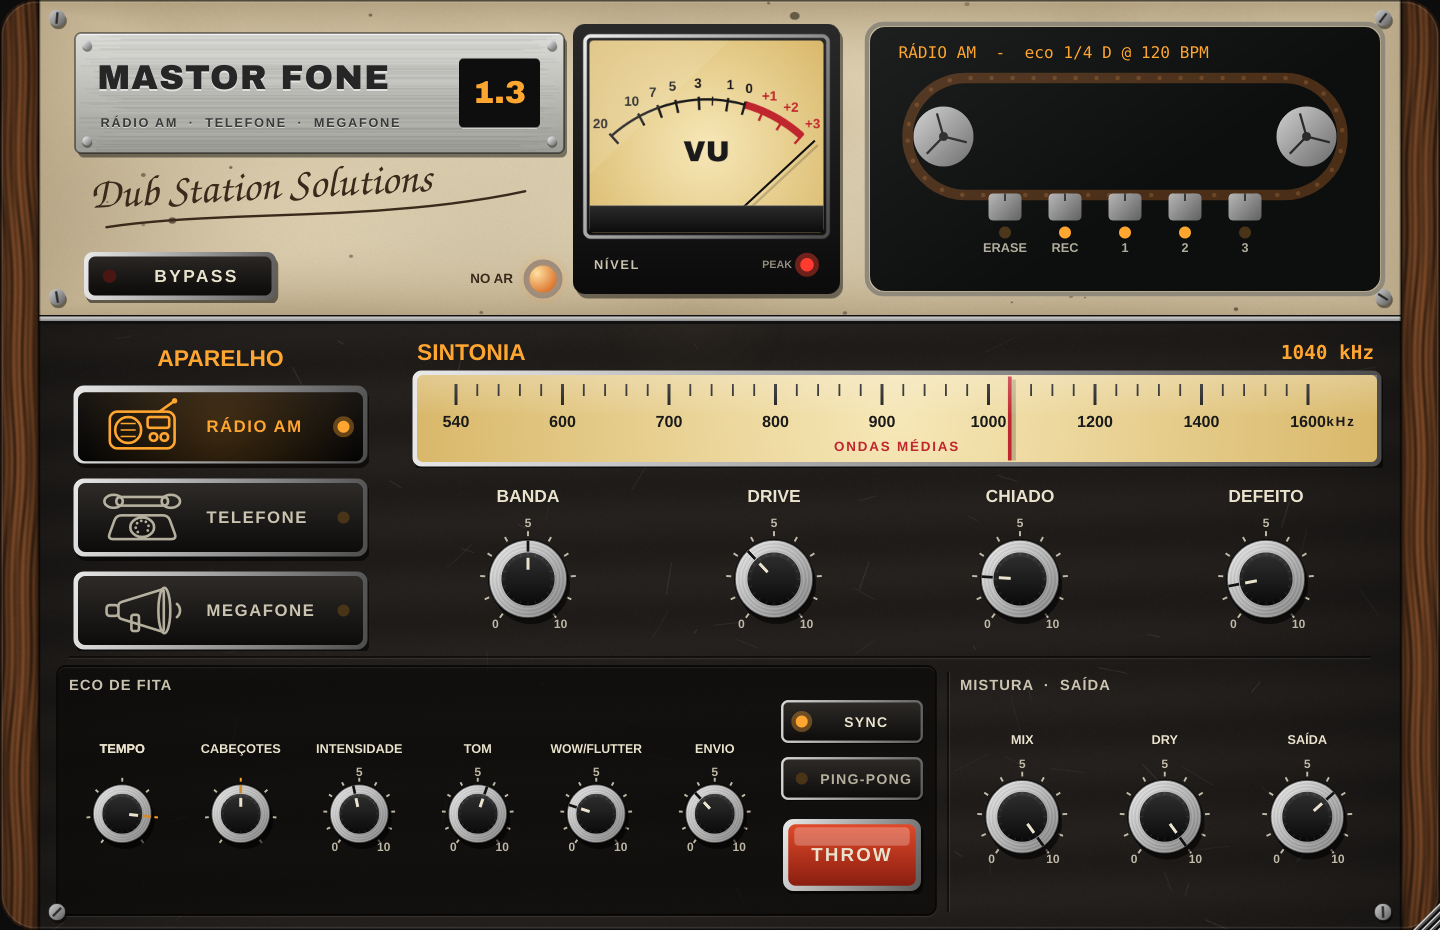
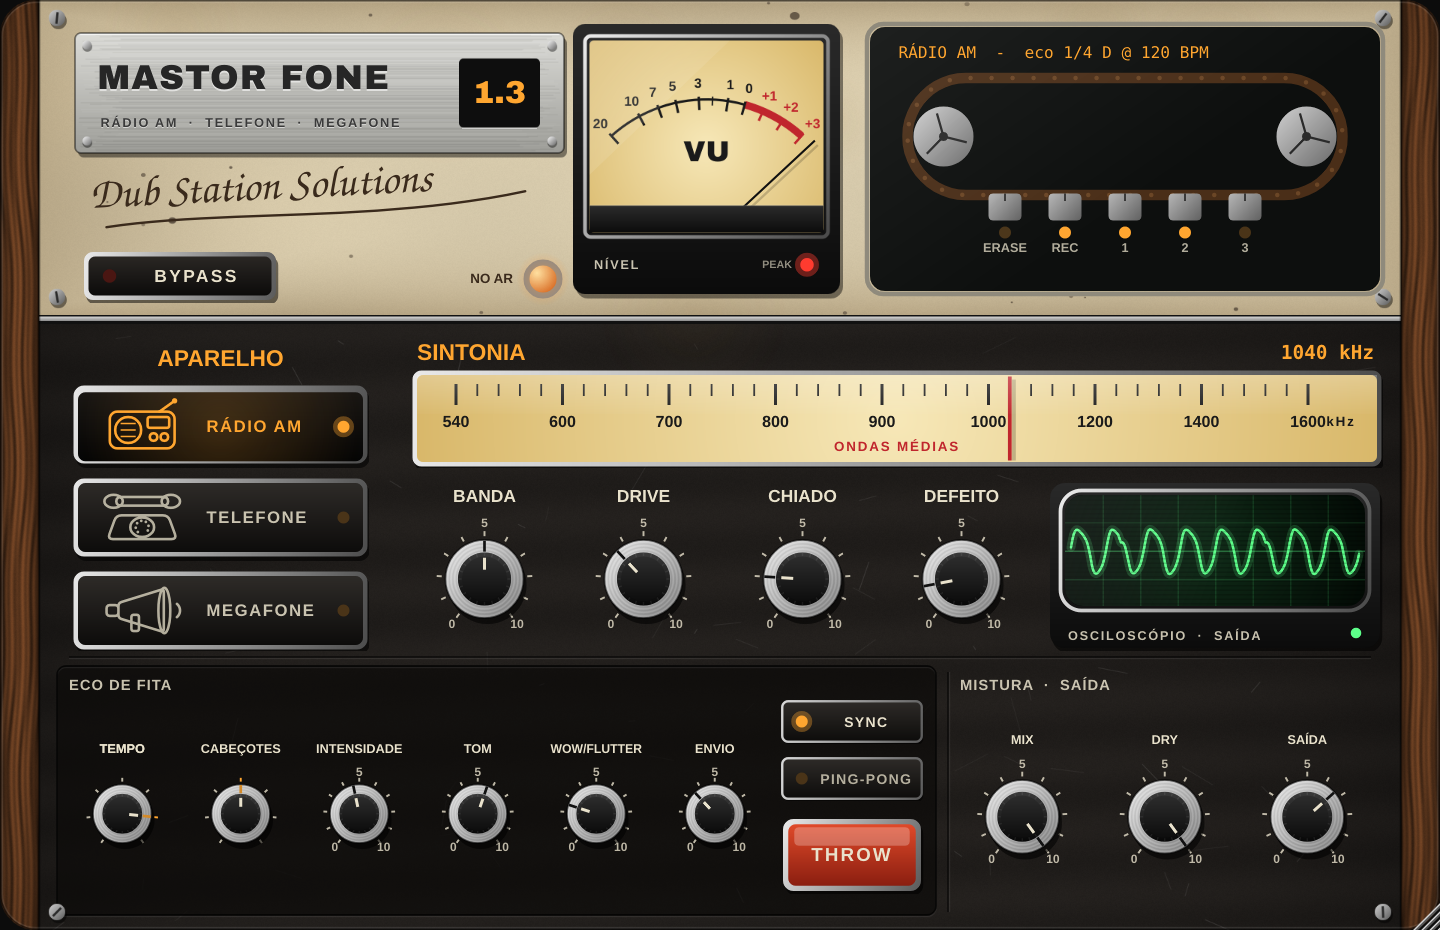
Mastor Fone 1.3: osciloscópio verde mostrando a onda de saída
Tela de tubo verde, com retícula, persistência do fósforo e linhas de
varredura, mostrando em tempo real a onda que sai depois do aparelho.

Claude-Session: https://claude.ai/code/session_01DJAeyXvUbq8XtquW6CP987

Changed region(s): [[0.625, 0.4989, 0.9688, 0.686], [0.3125, 0.5301, 0.5938, 0.686]]

diff --git a/site/index.html b/site/index.html
@@ -295,7 +295,7 @@
               <li>Rádio AM com válvula e chiado, telefone de central antiga e megafone estourado</li>
               <li>Teclas dos aparelhos, Sintonia, Banda, Drive, Chiado, Defeito e Mix</li>
               <li>Eco de fita com Sync, cabeçotes, ping-pong e THROW, VU e lâmpada NO AR</li>
-              <li>Visual Dub Station, com dial de ondas médias e BYPASS em destaque</li>
+              <li>Visual Dub Station, com dial de ondas médias, osciloscópio verde e BYPASS em destaque</li>
             </ul>
             <div class="formats">Efeito · Windows: VST3 + standalone · Mac: VST3, AU + standalone (Intel e Apple Silicon)</div>
             <div class="dl">

diff --git a/MastorFone/Source/StationPanel.cpp b/MastorFone/Source/StationPanel.cpp
@@ -399,14 +399,124 @@ void TuningDial::paint (Graphics& g)
 }
 
 //==============================================================================
+void CrtScope::update()
+{
+    const int N = (int) buf.size(), show = 1024;
+    proc.copyScope (buf.data(), N);
+    // gatilho: primeira subida pelo zero (com histerese) na primeira metade, para a onda ficar parada
+    int start = N - show;
+    for (int i = N - show - 1; i > 1; --i)
+        if (buf[(size_t) i - 1] < -0.01f && buf[(size_t) i] >= 0.0f) { start = i; break; }
+    start = jmin (start, N - show);
+
+    prev2 = prev1; prev1 = trace;
+    const int cols = 220;
+    trace.assign ((size_t) cols * 2, 0.0f);
+    for (int c = 0; c < cols; ++c)
+    {
+        float lo = 1e9f, hi = -1e9f;
+        const int a = start + c * show / cols, b = start + (c + 1) * show / cols;
+        for (int i = a; i < b; ++i) { lo = jmin (lo, buf[(size_t) i]); hi = jmax (hi, buf[(size_t) i]); }
+        trace[(size_t) c * 2] = lo; trace[(size_t) c * 2 + 1] = hi;
+    }
+    repaint();
+}
+
+void CrtScope::paint (Graphics& g)
+{
+    auto b = getLocalBounds().toFloat();
+    const Colour phosphor (0xff5dff8a);
+
+    // caixa de baquelite com aro cromado
+    g.setColour (Colours::black.withAlpha (0.55f));
+    g.fillRoundedRectangle (b.reduced (2.0f).translated (1.5f, 3.0f), 10.0f);
+    g.setGradientFill (ColourGradient (Colour (0xff2a2a2a), 0, b.getY(), Colour (0xff0b0b0b), 0, b.getBottom(), false));
+    g.fillRoundedRectangle (b.reduced (2.0f), 10.0f);
+    auto label = b.removeFromBottom (20.0f);
+    auto screen = b.reduced (12.0f, 10.0f);
+    g.setGradientFill (ColourGradient (Colour (0xffe8e8e8), screen.getX(), screen.getY(), Colour (0xff4c4c4c), screen.getRight(), screen.getBottom(), false));
+    g.drawRoundedRectangle (screen.expanded (3.0f), 14.0f, 2.5f);
+
+    // tela de tubo: verde escuro, mais clara no meio (curvatura)
+    Path tube; tube.addRoundedRectangle (screen, 12.0f);
+    g.setGradientFill (ColourGradient (Colour (0xff0f2a17), screen.getCentreX(), screen.getCentreY(),
+                                       Colour (0xff030a05), screen.getX(), screen.getY(), true));
+    g.fillPath (tube);
+    {
+        Graphics::ScopedSaveState ss (g);
+        g.reduceClipRegion (tube);
+
+        // retícula
+        g.setColour (phosphor.withAlpha (0.13f));
+        for (int i = 1; i < 8; ++i)
+        {
+            const float x = screen.getX() + screen.getWidth() * (float) i / 8.0f;
+            g.drawVerticalLine (roundToInt (x), screen.getY(), screen.getBottom());
+        }
+        for (int i = 1; i < 4; ++i)
+        {
+            const float y = screen.getY() + screen.getHeight() * (float) i / 4.0f;
+            g.drawHorizontalLine (roundToInt (y), screen.getX(), screen.getRight());
+        }
+        g.setColour (phosphor.withAlpha (0.22f));
+        g.drawHorizontalLine (roundToInt (screen.getCentreY()), screen.getX(), screen.getRight());
+
+        // traço com persistência do fósforo (quadros anteriores mais apagados)
+        auto drawTrace = [&] (const std::vector<float>& t, float alpha, bool glow)
+        {
+            if (t.size() < 4) return;
+            const int cols = (int) t.size() / 2;
+            const float cy = screen.getCentreY(), amp = screen.getHeight() * 0.45f;
+            auto yOf = [&] (float v) { return cy - amp * jlimit (-1.0f, 1.0f, v * 1.6f); };
+            Path p;
+            for (int c = 0; c < cols; ++c)
+            {
+                const float x = screen.getX() + 4.0f + (screen.getWidth() - 8.0f) * (float) c / (float) (cols - 1);
+                const float mid = 0.5f * (t[(size_t) c * 2] + t[(size_t) c * 2 + 1]);
+                if (c == 0) p.startNewSubPath (x, yOf (mid)); else p.lineTo (x, yOf (mid));
+                // faixa entre o mínimo e o máximo da coluna (detalhe da onda comprimida)
+                g.setColour (phosphor.withAlpha (0.35f * alpha));
+                g.drawLine (x, yOf (t[(size_t) c * 2]), x, yOf (t[(size_t) c * 2 + 1]), 1.0f);
+            }
+            if (glow)
+            {
+                g.setColour (phosphor.withAlpha (0.18f * alpha));
+                g.strokePath (p, PathStrokeType (6.0f, PathStrokeType::curved, PathStrokeType::rounded));
+            }
+            g.setColour (phosphor.withAlpha (alpha));
+            g.strokePath (p, PathStrokeType (1.6f, PathStrokeType::curved, PathStrokeType::rounded));
+        };
+        drawTrace (prev2, 0.18f, false);
+        drawTrace (prev1, 0.35f, false);
+        drawTrace (trace, 1.0f, true);
+
+        // linhas de varredura + reflexo do vidro
+        g.setColour (Colours::black.withAlpha (0.18f));
+        for (float y = screen.getY(); y < screen.getBottom(); y += 3.0f)
+            g.drawHorizontalLine (roundToInt (y), screen.getX(), screen.getRight());
+        g.setGradientFill (ColourGradient (Colours::white.withAlpha (0.10f), screen.getX(), screen.getY(),
+                                           Colours::transparentWhite, screen.getX() + screen.getWidth() * 0.6f, screen.getY() + screen.getHeight() * 0.6f, false));
+        g.fillPath (tube);
+    }
+
+    g.setColour (cream.withAlpha (0.85f));
+    g.setFont (bold (9.5f).withExtraKerningFactor (0.12f));
+    g.drawText (String::fromUTF8 ("OSCILOSCÓPIO  ·  SAÍDA"), label.withTrimmedLeft (14.0f), Justification::centredLeft);
+    const auto lp = Point<float> (label.getRight() - 18.0f, label.getCentreY() - 2.0f);
+    g.setColour (phosphor);
+    g.fillEllipse (lp.x - 3.5f, lp.y - 3.5f, 7.0f, 7.0f);
+}
+
+//==============================================================================
 StationPanel::StationPanel (RadioFoneProcessor& p)
-    : proc (p), modeKeys (*p.apvts.getParameter ("mode")), dial (*p.apvts.getParameter ("tune")), throwBtn ("THROW", p.apvts.getParameter ("throw"))
+    : proc (p), modeKeys (*p.apvts.getParameter ("mode")), dial (*p.apvts.getParameter ("tune")), scope (p), throwBtn ("THROW", p.apvts.getParameter ("throw"))
 {
     setLookAndFeel (&lnf);
     setSize (kW, kH);
 
     addAndMakeVisible (modeKeys);
     addAndMakeVisible (dial);
+    addAndMakeVisible (scope);
     setupKnob (band,   "band",   "BANDA", 1);
     setupKnob (drive,  "drive",  "DRIVE", 1);
     setupKnob (noise,  "noise",  "CHIADO", 1);
@@ -507,6 +617,7 @@ void StationPanel::resized()
     rowA.removeFromLeft (10);
     dial.setBounds (rowA.removeFromTop (92).reduced (4, 2));
     rowA.removeFromTop (4);
+    scope.setBounds (rowA.removeFromRight (232).reduced (4, 2));
     const int wm = rowA.getWidth() / 4;
     for (auto* k : { &band, &drive, &noise, &defect })
         place (*k, rowA.removeFromLeft (wm), 18);
@@ -585,6 +696,7 @@ void StationPanel::timerCallback()
     if (echoOn) tapePhase += 0.6f + 1.6f * jlimit (0.2f, 3.0f, 0.4f / jmax (0.04f, proc.getEchoDelaySec()));
 
     status.setText (statusText(), dontSendNotification);
+    scope.update();
     repaint (vuArea);
     repaint (tapeWin.expanded (4));
     repaint (Rectangle<float> (40, 40).withCentre (lampPos).toNearestInt());

diff --git a/MastorFone/Source/PluginProcessor.cpp b/MastorFone/Source/PluginProcessor.cpp
@@ -136,6 +136,7 @@ void RadioFoneProcessor::processBlock (juce::AudioBuffer<float>& buffer, juce::M
     float* L = buffer.getWritePointer (0);
     float* R = numOut > 1 ? buffer.getWritePointer (1) : nullptr;
     float sumSq = 0.0f, echoSq = 0.0f;
+    int sw = scopeWrite.load (std::memory_order_relaxed);
 
     // cadeia: entrada (mono) -> aparelho -> seco + eco de fita -> saída
     for (int i = 0; i < n; ++i)
@@ -148,10 +149,13 @@ void RadioFoneProcessor::processBlock (juce::AudioBuffer<float>& buffer, juce::M
         const float yl = ((v * dg + el) * og) * (1.0f - m) + xl * m;
         const float yr = ((v * dg + er) * og) * (1.0f - m) + xr * m;
         sumSq += 0.5f * (yl * yl + yr * yr);
+        scopeBuf[(size_t) sw] = 0.5f * (yl + yr);
+        sw = (sw + 1) & (kScopeSize - 1);
         echoSq += 0.5f * (el * el + er * er);
         if (R) { L[i] = yl; R[i] = yr; }
         else     L[i] = 0.5f * (yl + yr);
     }
+    scopeWrite.store (sw, std::memory_order_release);
     outRms.store (std::sqrt (sumSq / (float) n));
     echoRms.store (std::sqrt (echoSq / (float) n));
 }

diff --git a/MastorFone/Source/PluginProcessor.h b/MastorFone/Source/PluginProcessor.h
@@ -40,6 +40,15 @@ public:
     float getEchoDelaySec() const { return echoDelay.load(); }
     float getDisplayBpm() const  { return displayBpm.load(); }
 
+    // osciloscópio: últimas amostras da saída (mono)
+    static constexpr int kScopeSize = 8192;
+    void copyScope (float* dest, int n) const
+    {
+        const int w = scopeWrite.load (std::memory_order_acquire);
+        for (int i = 0; i < n; ++i)
+            dest[i] = scopeBuf[(size_t) ((w - n + i) & (kScopeSize - 1))];
+    }
+
     juce::AudioProcessorValueTreeState apvts;
     static juce::AudioProcessorValueTreeState::ParameterLayout createLayout();
     static const juce::StringArray& divisionNames();
@@ -52,6 +61,8 @@ private:
     dub::TapeEcho echo;
     juce::SmoothedValue<float> dryGain, outGain, bypassMix;
 
+    std::array<float, kScopeSize> scopeBuf {};
+    std::atomic<int> scopeWrite { 0 };
     std::atomic<float> outRms { 0.0f }, echoRms { 0.0f }, echoDelay { 0.4f }, displayBpm { 120.0f };
     std::map<std::string, std::atomic<float>*> params;
 

diff --git a/MastorFone/Source/PluginEditor.h b/MastorFone/Source/PluginEditor.h
@@ -77,6 +77,18 @@ private:
     float value = 0.0f;
 };
 
+// Osciloscópio de tubo verde: mostra a onda que sai do plugin
+class CrtScope : public juce::Component
+{
+public:
+    explicit CrtScope (RadioFoneProcessor& p) : proc (p) { setInterceptsMouseClicks (false, false); }
+    void paint (juce::Graphics&) override;
+    void update();   // chamado pelo timer do painel
+private:
+    RadioFoneProcessor& proc;
+    std::vector<float> buf = std::vector<float> (2048), trace, prev1, prev2;
+};
+
 class StationPanel : public juce::Component, private juce::Timer
 {
 public:
@@ -117,6 +129,7 @@ private:
 
     StationModeKeys modeKeys;
     TuningDial dial;
+    CrtScope scope;
     Knob band, drive, noise, defect;
     Knob echoDiv, echoMs, echoHeads, echoFb, echoTone, echoWow, echoSend;
     Knob mix, dry, out;

diff --git a/MastorFone/README.md b/MastorFone/README.md
@@ -39,6 +39,8 @@ O eco recebe a voz já processada, então as repetições também soam de rádio
 
 ## MASTER
 **DRY** (zere para usar num FX Channel), **SAÍDA** e **BYPASS** (o mesmo bypass do Cubase, com transição suave).
+O **OSCILOSCÓPIO** (tela verde de tubo, ao lado dos controles do aparelho) mostra a onda que sai do plugin, já passada pelo aparelho, em tempo real.
+
 O **BYPASS** fica em destaque no painel de cima e acende vermelho quando o efeito está desligado. No painel: VU de ponteiro (0 VU = -18 dBFS) e a lâmpada **NO AR**, que acende quando passa som.
 
 A janela é redimensionável: arraste o canto inferior direito (50% a 150%). Duplo clique num botão volta ao valor padrão.
